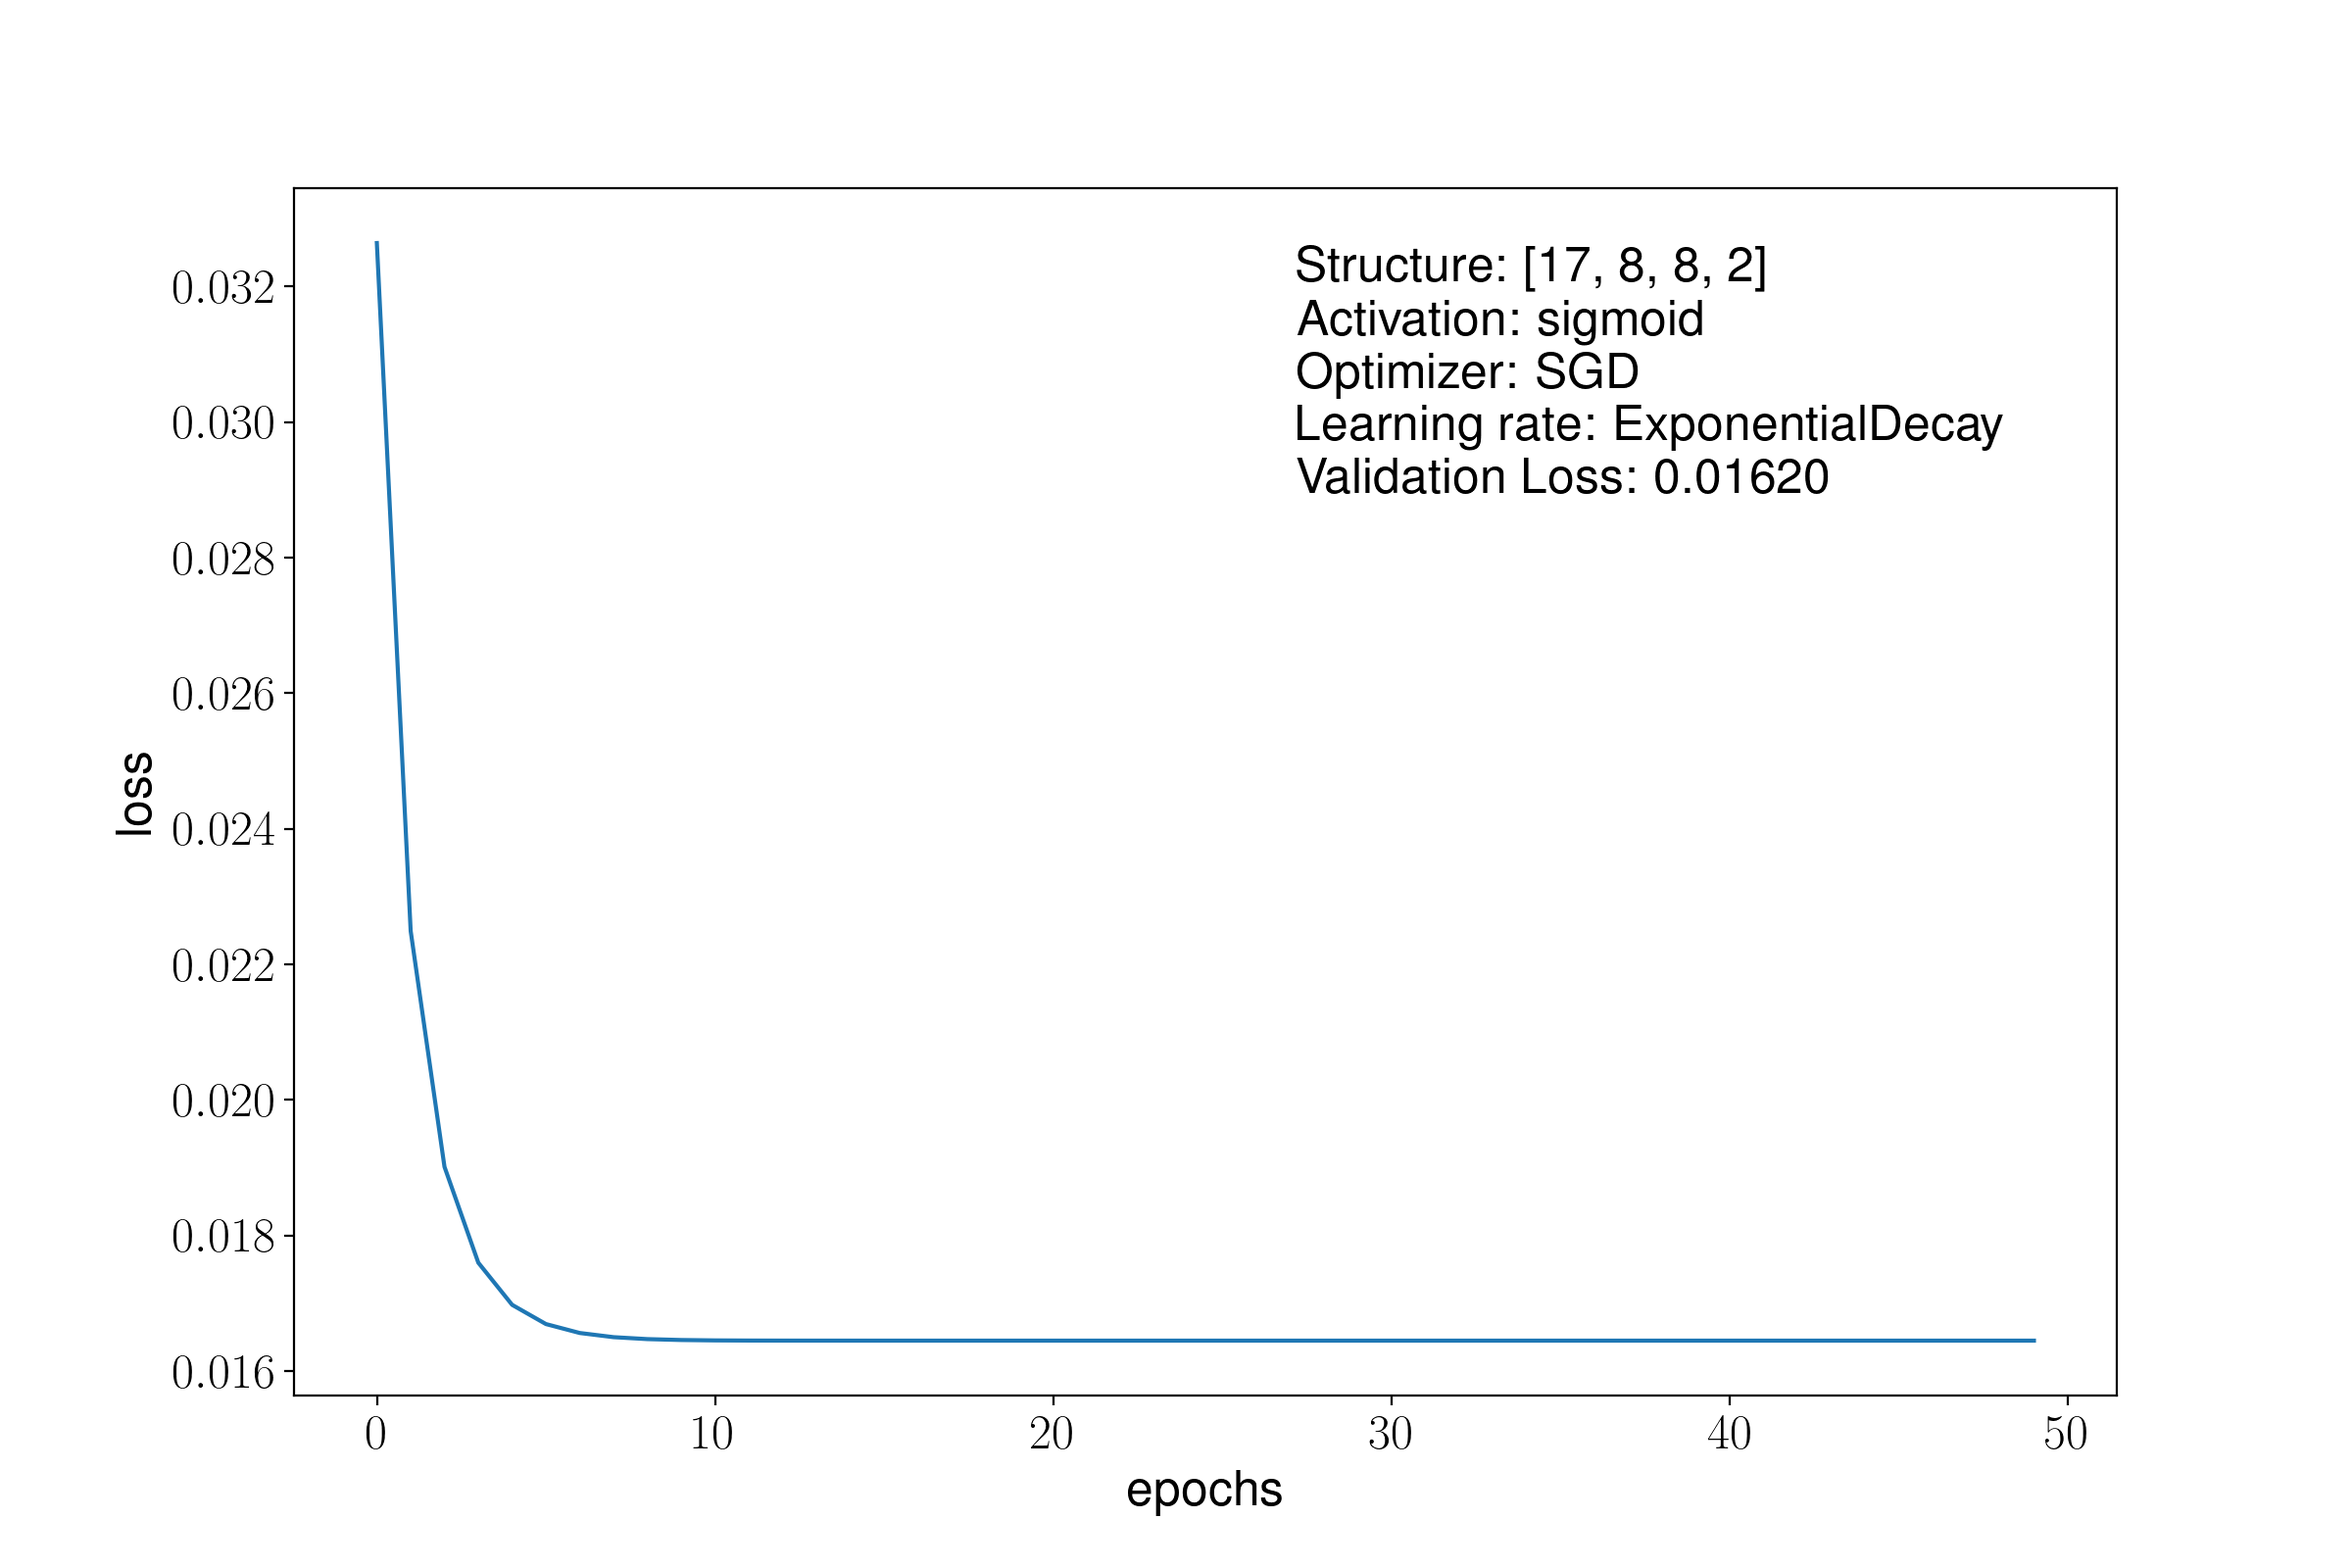
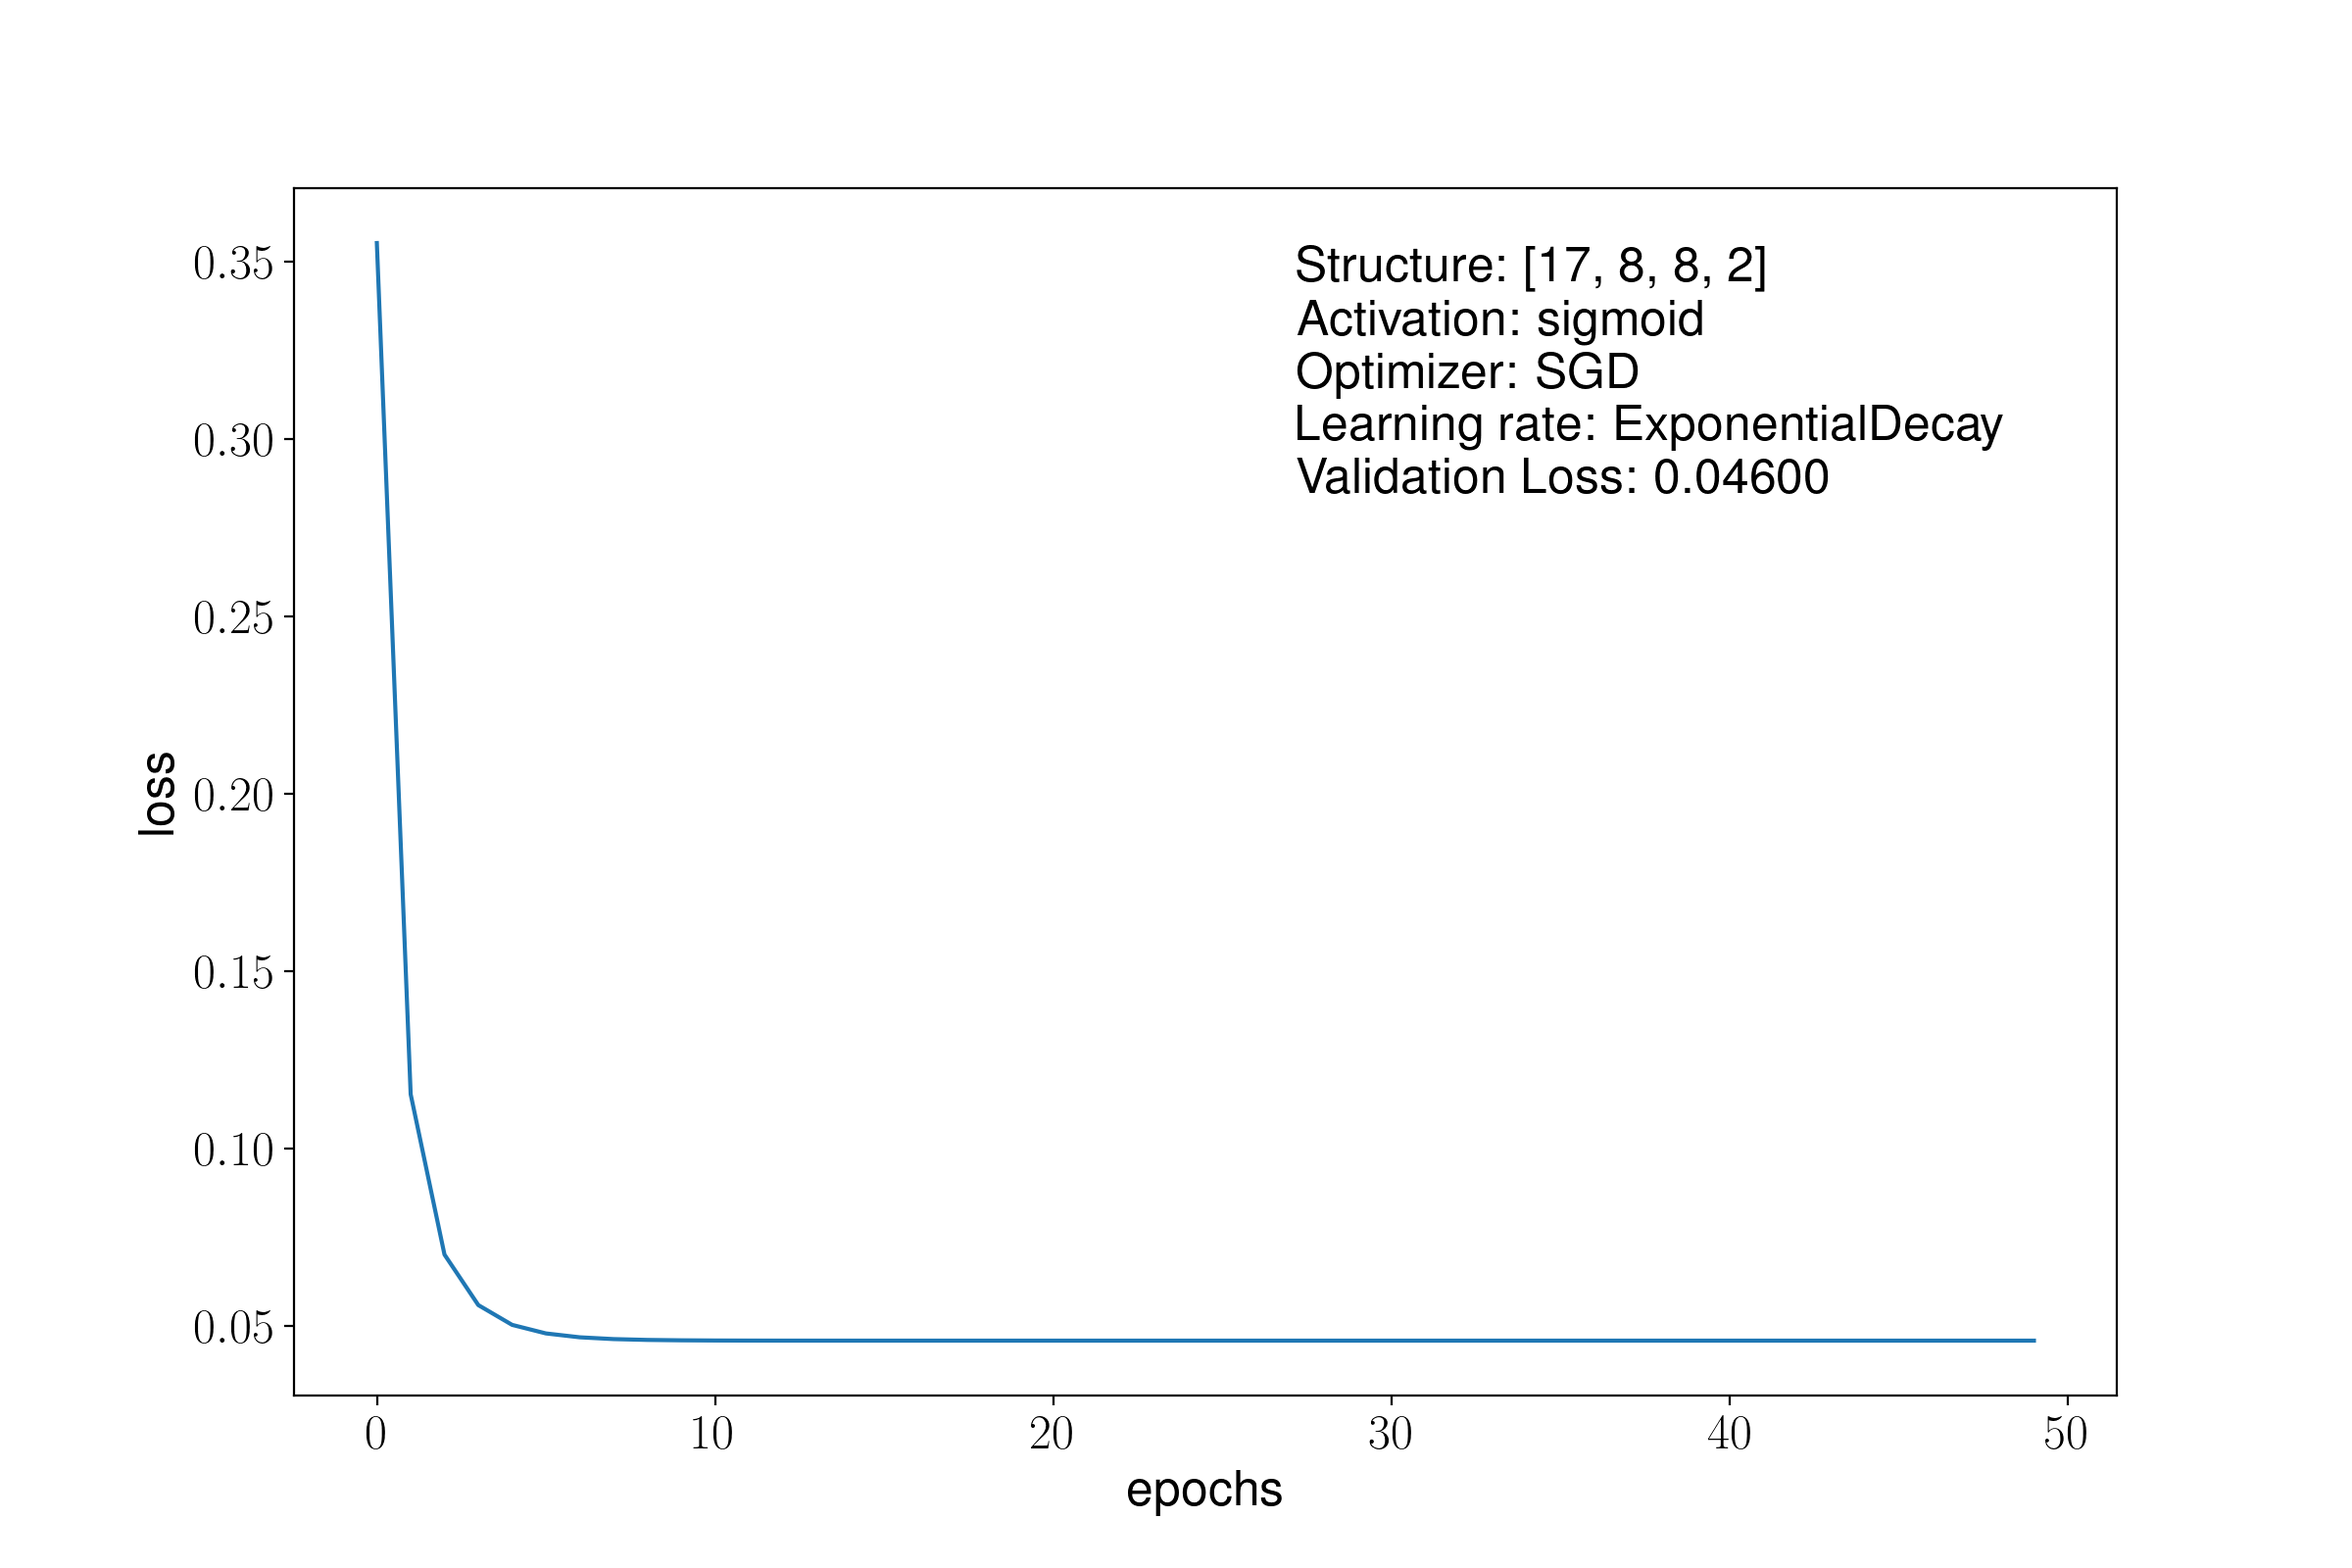
aded best model, noit yet tested

diff --git a/Assignment 2/code/ass2_code.py b/Assignment 2/code/ass2_code.py
@@ -159,7 +159,7 @@ evaluated_learning_rates = []
 n = 0
 for n_units, activation, optimizer, learning_rate in itertools.product(n_neurons, activation_functions, optimizers, learning_rates):
     
-    optimizer = optimizer(learning_rate)
+    optimizer = optimizer(learning_rate, momentum=0.5)
     model = create_model(n_units, activation)
     model.compile(
         optimizer=optimizer,
@@ -206,5 +206,43 @@ for n_units, activation, optimizer, learning_rate in itertools.product(n_neurons
     
 
 
+#%% testing the final, best performing model
+n_units_best = [17, 32, 8, 32, 2]
+activation_best = 'relu'
+learning_rate_best = 0.0001
+optimizer_best = Adam(learning_rate=learning_rate_best)
+
+final_model = create_model(n_units_best, activation_best)
+final_model.compile(
+    optimizer=optimizer_best,
+    loss=cost_function
+)
+
+
+
+
+training_history = final_model.fit(X_train, y_train, epochs=epochs, batch_size=batch_size)
+
+
+validation_loss = model.evaluate(X_validate, y_validate)
+print(f"Test loss: {validation_loss}")
+
+
+#%% plotting
+annotation_text = \
+    f"Structure: {n_units_best}" \
+    f"\nActivation: {activation_best}" \
+    f"\nOptimizer: {optimizer_best._name}" \
+    f"\nLearning rate: {learning_rate_best.name}" \
+    f"\nValidation Loss: {validation_loss:.5f}"
+    
+fig, ax = plt.subplots(figsize=figsize)
+ax.plot(training_history.history["loss"])
+plt.xlabel('epochs')
+plt.ylabel('loss')
+
+ax.text(0.55, 0.95, annotation_text, transform=ax.transAxes, verticalalignment='top', fontsize=fontsize)
+plt.savefig(r'../plots/training_evolution_{}.png'.format('best_model'))
+plt.show()
 
 
